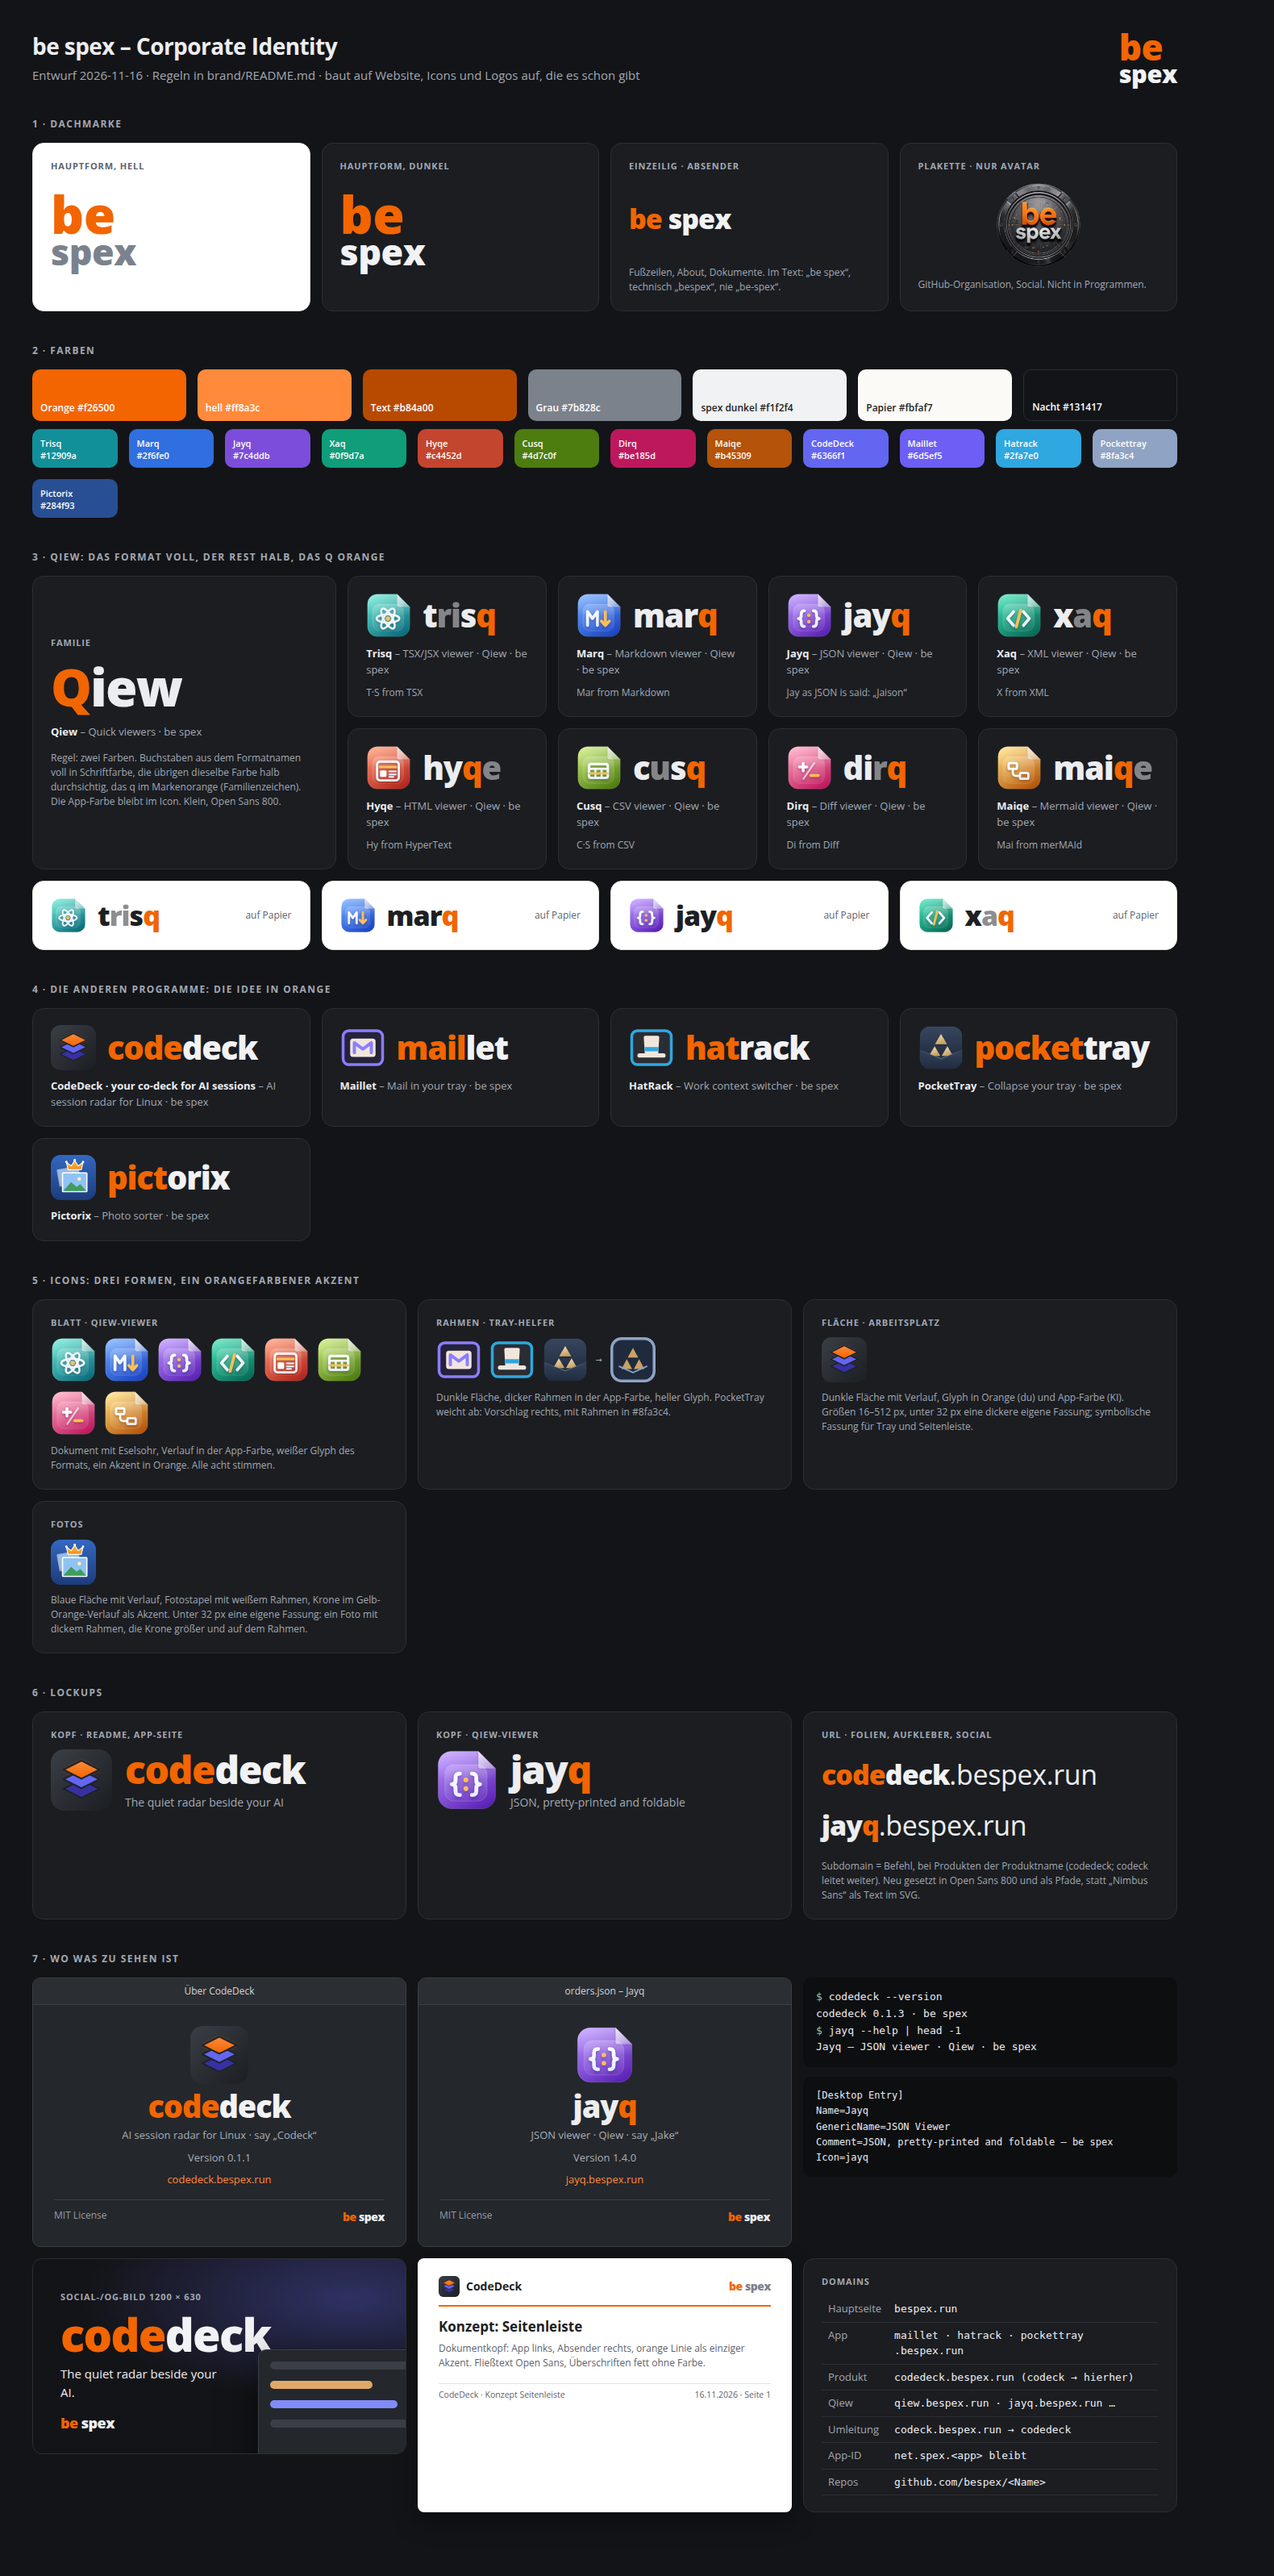
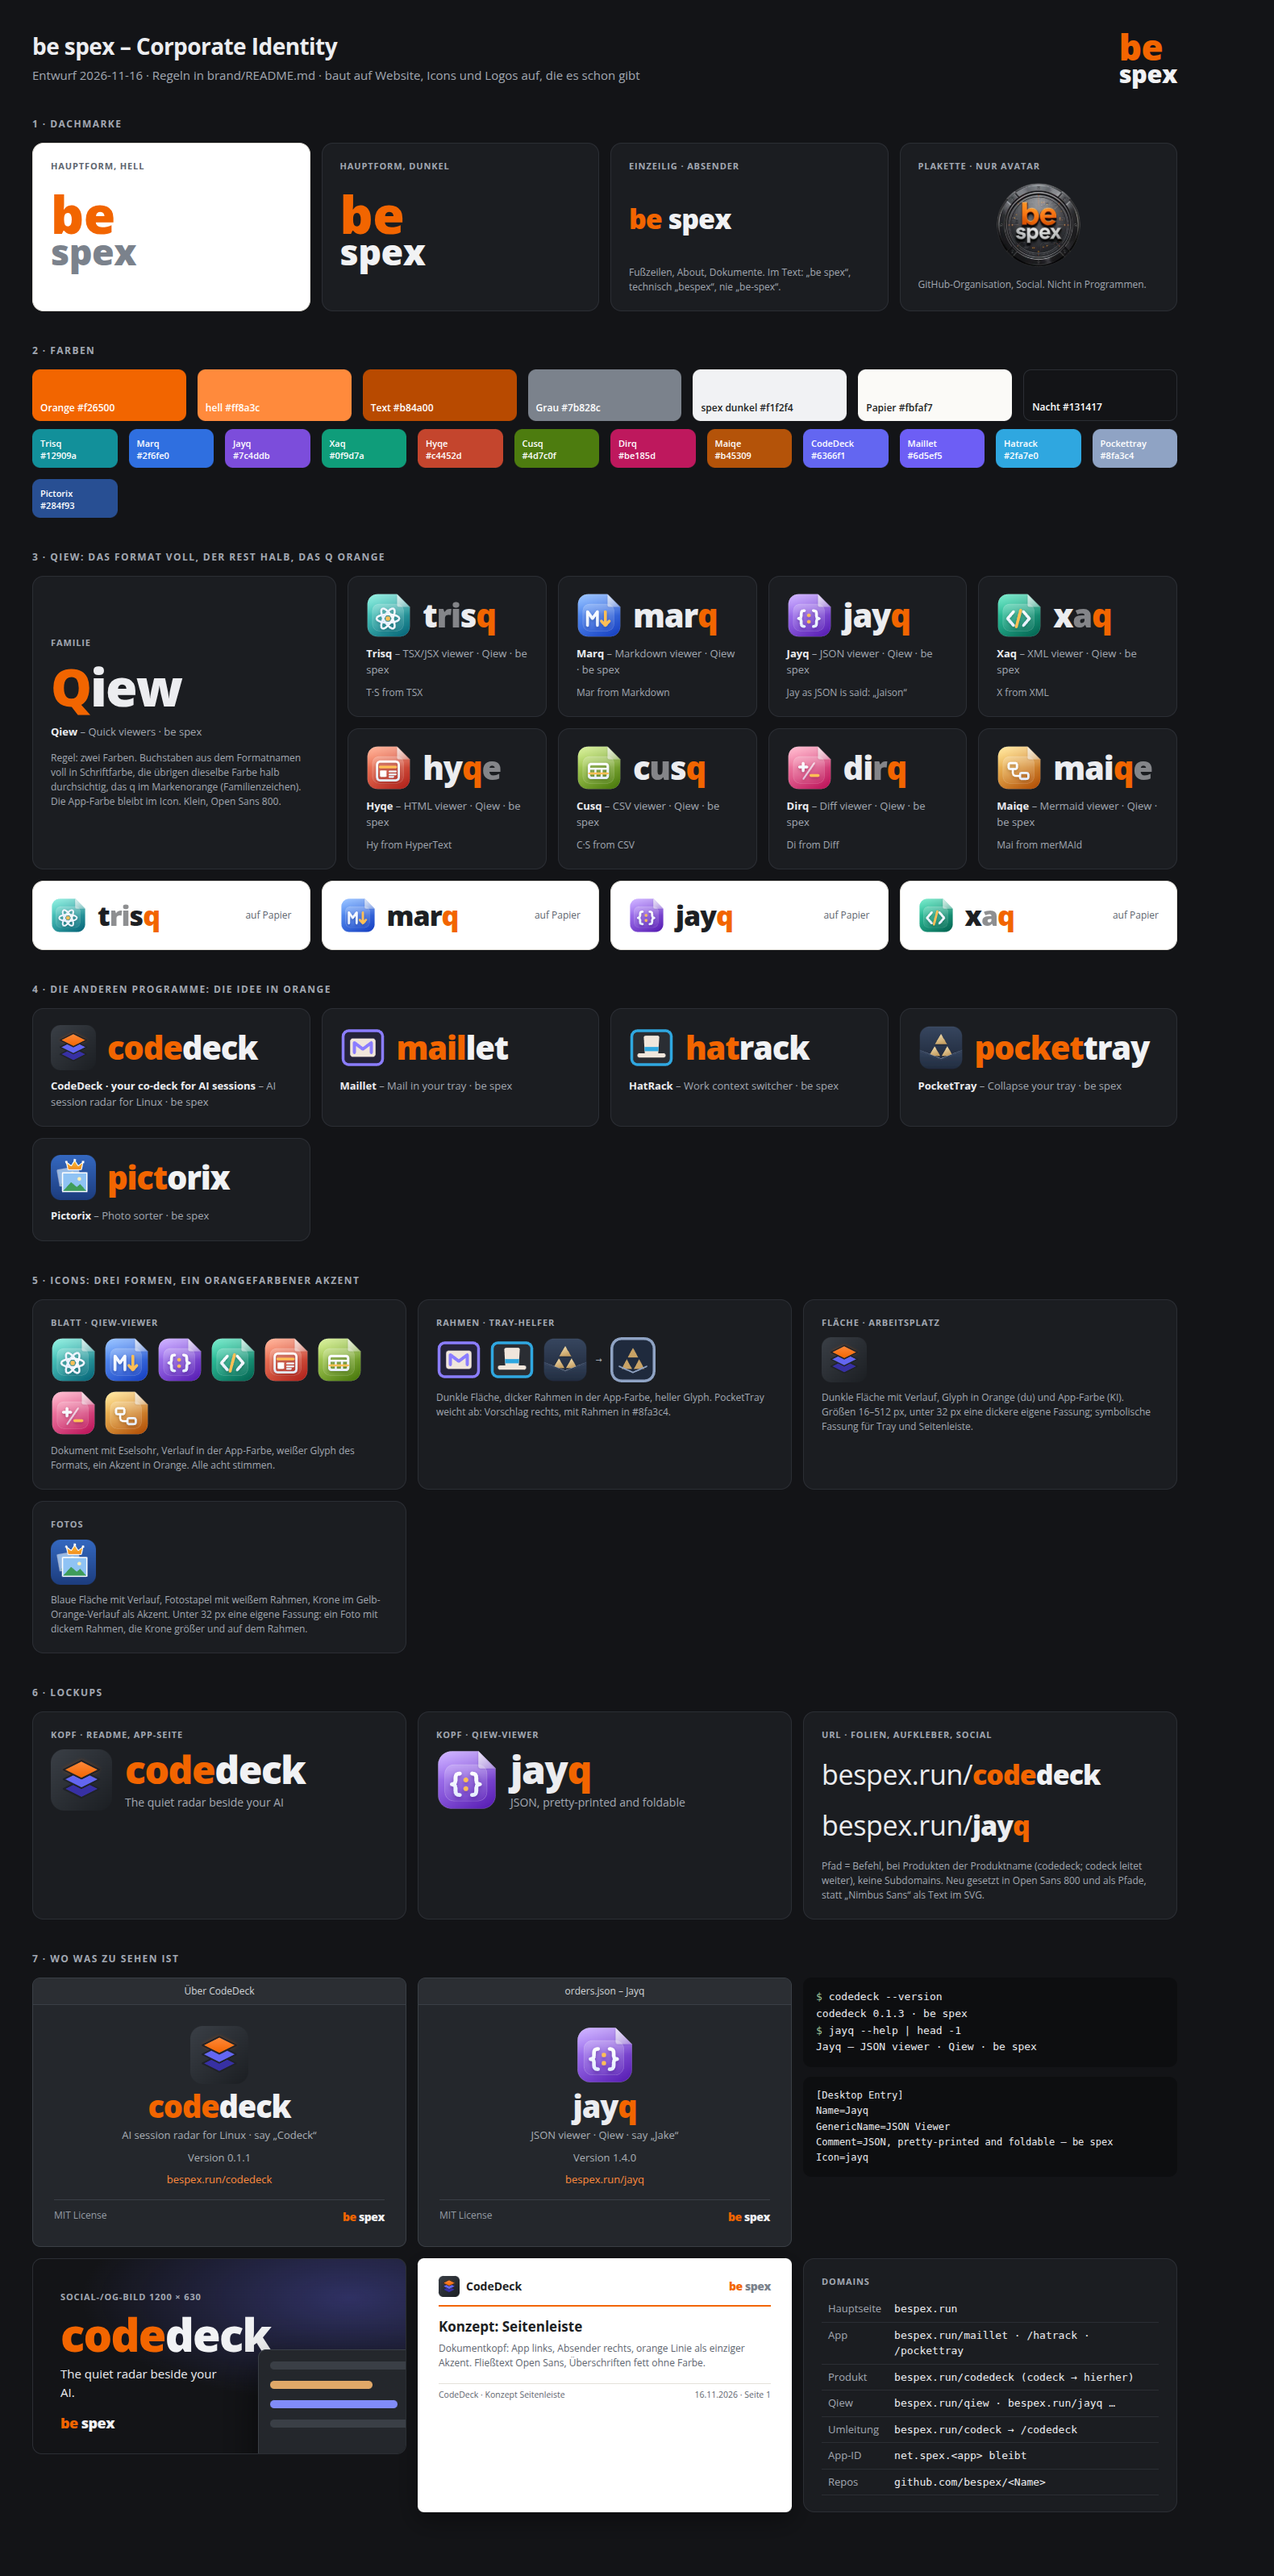
Brand: app pages as paths under bespex.run, no subdomains
Claude-Session: https://claude.ai/code/session_01AmUU1ckh5iDie4vHPz56Cn

Changed region(s): [[0.6513, 0.6819, 0.8994, 0.7439], [0.7133, 0.8989, 0.7753, 0.9609], [0.8063, 0.9299, 0.8373, 0.9609]]

diff --git a/brand/board.html b/brand/board.html
@@ -71,14 +71,14 @@ table{border-collapse:collapse;width:100%;font-size:13px}td{border-bottom:1px so
   <div class="card"><span class="lbl">Kopf · README, App-Seite</span><div class="lock"><img src="icons/codedeck.svg" width="76" height="76" alt=""><div><span class="wm" style="font-size:48px"><span style="color:#f26500">code</span><span style="color:var(--grey)">deck</span></span><div class="tl">The quiet radar beside your AI</div></div></div></div>
   <div class="card"><span class="lbl">Kopf · Qiew-Viewer</span><div class="lock"><img src="../public/icons/jayq.svg" width="76" height="76" alt=""><div><span class="wm" style="font-size:48px"><span style="color:var(--fg);opacity:1">jay</span><span style="color:#f26500;opacity:1">q</span></span><div class="tl">JSON, pretty-printed and foldable</div></div></div></div>
   <div class="card"><span class="lbl">URL · Folien, Aufkleber, Social</span><div style="display:flex;flex-direction:column;gap:12px;padding:6px 0">
-    <span class="url"><span class="wm" style="font-size:34px"><span style="color:#f26500">code</span><span style="color:var(--grey)">deck</span></span><span class="d">.bespex.run</span></span>
-    <span class="url"><span class="wm" style="font-size:34px"><span style="color:var(--fg);opacity:1">jay</span><span style="color:#f26500;opacity:1">q</span></span><span class="d">.bespex.run</span></span></div><span class="why">Subdomain = Befehl, bei Produkten der Produktname (codedeck; codeck leitet weiter). Neu gesetzt in Open Sans 800 und als Pfade, statt „Nimbus Sans“ als Text im SVG.</span></div>
+    <span class="url"><span class="d">bespex.run/</span><span class="wm" style="font-size:34px"><span style="color:#f26500">code</span><span style="color:var(--grey)">deck</span></span></span>
+    <span class="url"><span class="d">bespex.run/</span><span class="wm" style="font-size:34px"><span style="color:var(--fg);opacity:1">jay</span><span style="color:#f26500;opacity:1">q</span></span></span></div><span class="why">Pfad = Befehl, bei Produkten der Produktname (codedeck; codeck leitet weiter), keine Subdomains. Neu gesetzt in Open Sans 800 und als Pfade, statt „Nimbus Sans“ als Text im SVG.</span></div>
 </div>
 
 <h2>7 · Wo was zu sehen ist</h2>
 <div class="row c3">
-  <div class="win"><div class="wbar">Über CodeDeck</div><div class="about"><img src="icons/codedeck.svg" width="72" height="72" alt=""><span class="wm" style="font-size:38px"><span style="color:#f26500">code</span><span style="color:var(--grey)">deck</span></span><span class="k">AI session radar for Linux · say „Codeck“</span><span class="k">Version 0.1.1</span><a>codedeck.bespex.run</a><div class="foot"><span>MIT License</span><span class="bs1" style="font-size:14px"><span class="be">be</span> <span class="spex">spex</span></span></div></div></div>
-  <div class="win"><div class="wbar">orders.json – Jayq</div><div class="about"><img src="../public/icons/jayq.svg" width="72" height="72" alt=""><span class="wm" style="font-size:38px"><span style="color:var(--fg);opacity:1">jay</span><span style="color:#f26500;opacity:1">q</span></span><span class="k">JSON viewer · Qiew · say „Jake“</span><span class="k">Version 1.4.0</span><a>jayq.bespex.run</a><div class="foot"><span>MIT License</span><span class="bs1" style="font-size:14px"><span class="be">be</span> <span class="spex">spex</span></span></div></div></div>
+  <div class="win"><div class="wbar">Über CodeDeck</div><div class="about"><img src="icons/codedeck.svg" width="72" height="72" alt=""><span class="wm" style="font-size:38px"><span style="color:#f26500">code</span><span style="color:var(--grey)">deck</span></span><span class="k">AI session radar for Linux · say „Codeck“</span><span class="k">Version 0.1.1</span><a>bespex.run/codedeck</a><div class="foot"><span>MIT License</span><span class="bs1" style="font-size:14px"><span class="be">be</span> <span class="spex">spex</span></span></div></div></div>
+  <div class="win"><div class="wbar">orders.json – Jayq</div><div class="about"><img src="../public/icons/jayq.svg" width="72" height="72" alt=""><span class="wm" style="font-size:38px"><span style="color:var(--fg);opacity:1">jay</span><span style="color:#f26500;opacity:1">q</span></span><span class="k">JSON viewer · Qiew · say „Jake“</span><span class="k">Version 1.4.0</span><a>bespex.run/jayq</a><div class="foot"><span>MIT License</span><span class="bs1" style="font-size:14px"><span class="be">be</span> <span class="spex">spex</span></span></div></div></div>
   <div style="display:flex;flex-direction:column;gap:12px">
     <div class="term"><span class="p">$</span> codedeck --version<br>codedeck 0.1.3 · be spex<br><span class="p">$</span> jayq --help | head -1<br>Jayq – JSON viewer · Qiew · be spex</div>
     <div class="term" style="font-size:12px">[Desktop Entry]<br>Name=Jayq<br>GenericName=JSON Viewer<br>Comment=JSON, pretty-printed and foldable – be spex<br>Icon=jayq</div>
@@ -88,8 +88,8 @@ table{border-collapse:collapse;width:100%;font-size:13px}td{border-bottom:1px so
   <div class="og"><span class="lbl" style="color:#a2a8b2">Social-/OG-Bild 1200 × 630</span><span class="wm" style="font-size:56px"><span style="color:#f26500">code</span><span style="color:var(--grey)">deck</span></span><div style="color:#ecedf0;font-size:15px;max-width:50%;margin-bottom:26px">The quiet radar beside your AI.</div><div style="position:absolute;left:34px;bottom:24px"><span class="bs1" style="font-size:18px"><span class="be">be</span> <span class="spex">spex</span></span></div><div class="shot"><i></i><i></i><i></i><i></i></div></div>
   <div class="doc"><div class="h"><span style="display:flex;align-items:center;gap:8px"><img src="icons/codedeck.svg" width="26" height="26" alt=""><b style="font-size:14px">CodeDeck</b></span><span style="--grey:#7b828c"><span class="bs1" style="font-size:14px"><span class="be">be</span> <span class="spex">spex</span></span></span></div><h3>Konzept: Seitenleiste</h3><p style="margin:0;color:#5d646e">Dokumentkopf: App links, Absender rechts, orange Linie als einziger Akzent. Fließtext Open Sans, Überschriften fett ohne Farbe.</p><div class="f"><span>CodeDeck · Konzept Seitenleiste</span><span>16.11.2026 · Seite 1</span></div></div>
   <div class="card"><span class="lbl">Domains</span><table>
-    <tr><td>Hauptseite</td><td class="mono">bespex.run</td></tr><tr><td>App</td><td class="mono">maillet · hatrack · pockettray .bespex.run</td></tr><tr><td>Produkt</td><td class="mono">codedeck.bespex.run (codeck → hierher)</td></tr>
-    <tr><td>Qiew</td><td class="mono">qiew.bespex.run · jayq.bespex.run …</td></tr><tr><td>Umleitung</td><td class="mono">codeck.bespex.run → codedeck</td></tr>
+    <tr><td>Hauptseite</td><td class="mono">bespex.run</td></tr><tr><td>App</td><td class="mono">bespex.run/maillet · /hatrack · /pockettray</td></tr><tr><td>Produkt</td><td class="mono">bespex.run/codedeck (codeck → hierher)</td></tr>
+    <tr><td>Qiew</td><td class="mono">bespex.run/qiew · bespex.run/jayq …</td></tr><tr><td>Umleitung</td><td class="mono">bespex.run/codeck → /codedeck</td></tr>
     <tr><td>App-ID</td><td class="mono">net.spex.&lt;app&gt; bleibt</td></tr><tr><td>Repos</td><td class="mono">github.com/bespex/&lt;Name&gt;</td></tr></table></div>
 </div>
 </body></html>

diff --git a/brand/README.md b/brand/README.md
@@ -199,7 +199,7 @@ Drei Formen, eine Bauweise: 512 × 512, abgerundet, ein **heller Hauptglyph** un
 |---|---|---|
 | **Kopf** | Icon (Höhe = 2 Zeilen) · Schriftzug · darunter `tagline` klein | README-Kopf, App-Seite, About-Dialog |
 | **Zeile** | Icon (Höhe = Versalhöhe × 1,4) · Schriftzug | Website-Karte, Menüs, Dokumentkopf |
-| **URL** | Schriftzug · `.bespex.run` in Schriftfarbe, normale Stärke, Punkte als Kreise | Folien, Aufkleber, Social-Bilder (wie `Logos/url-*.svg`) |
+| **URL** | `bespex.run/` in Schriftfarbe, normale Stärke, Punkte als Kreise · Schriftzug | Folien, Aufkleber, Social-Bilder (wie `Logos/url-*.svg`) |
 | **Absender** | „be spex“ einzeilig, klein, rechts oder unten | Fußzeilen, About, Dokumente |
 
 ## 10 Domains und Kennungen
@@ -207,16 +207,15 @@ Drei Formen, eine Bauweise: 512 × 512, abgerundet, ein **heller Hauptglyph** un
 | Was | Regel | Beispiele |
 |---|---|---|
 | Hauptseite | `bespex.run`, bis zum Umzug weiter `bespex.github.io` (Umzug: GitHub Pages mit eigener Domain, alte Adresse leitet um) | |
-| App | `<befehl>.bespex.run` → App-Seite der Website | `maillet.bespex.run`, `jayq.bespex.run` |
-| Familie mit mehreren Programmen | `<familie>.bespex.run` | `qiew.bespex.run` |
-| Familie | `qiew.bespex.run` → Qiew-Abschnitt | |
-| Weiterleitungen | Langformen, alte Namen | `codeck.bespex.run` → `codedeck.bespex.run` |
+| App | `bespex.run/<befehl>` = App-Seite der Website, darunter z. B. das Handbuch | `bespex.run/maillet`, `bespex.run/codedeck/manual/de/` |
+| Familie mit mehreren Programmen | `bespex.run/<familie>` → Abschnitt der Familie | `bespex.run/qiew` |
+| Weiterleitungen | Langformen, alte Namen, als Pfad | `bespex.run/codeck` → `bespex.run/codedeck` |
 | Pakete | APT-Quelle unter `bespex.run/apt` (Repository `bespex/apt`), Schlüssel als ASCII unter `bespex.run/key.asc`; weitere Formate je Pfad: `bespex.run/rpm`, `bespex.run/arch` | |
 | App-ID | bleibt `net.spex.<app>` (alle zehn Tauri-Apps nutzen sie; ein Wechsel verschiebt Einstellungen und Dateizuordnungen). Für Flathub braucht es eine bestätigte Domain: dann `run.bespex.<app>`, als eigene Entscheidung | |
 | Repos | `github.com/bespex/<Name>` | `bespex/CodeDeck`, `bespex/Qiew` |
 
-Subdomains folgen dem **Befehl** (kurz, klein, eindeutig): `codedeck.bespex.run`; der alte Name `codeck.bespex.run`
-zeigt dieselbe Seite.
+Pfade folgen dem **Befehl** (kurz, klein, eindeutig): `bespex.run/codedeck`; der alte Name `bespex.run/codeck` zeigt
+dieselbe Seite. Subdomains je App gibt es nicht (geändert 2026-11-21): eine Domain, eine Website, die Apps als Pfade.
 
 ## 11 Wo was zu sehen ist
 
@@ -258,5 +257,5 @@ zeigt dieselbe Seite.
 4. Website: Schriftzüge auf App-Seiten und Karten, OG-Bilder je App (HatRack fehlt mangels Screenshot). HatRack,
    CodeDeck und Pictorix stehen in `apps.ts` (CodeDeck noch privat, HatRack
    `unlisted`: eigene Seite ohne Verlinkung).
-5. Domains: `bespex.run` als Pages-Domain, Subdomains als Weiterleitungen auf die App-Seiten.
+5. Domains: `bespex.run` als Pages-Domain; die App-Seiten liegen als Pfade darunter (`bespex.run/<befehl>`), keine Subdomains.
 6. In den Apps: About-Dialog nach §11 (CodeDeck: zusammen mit Schritt A der Seitenleiste).
